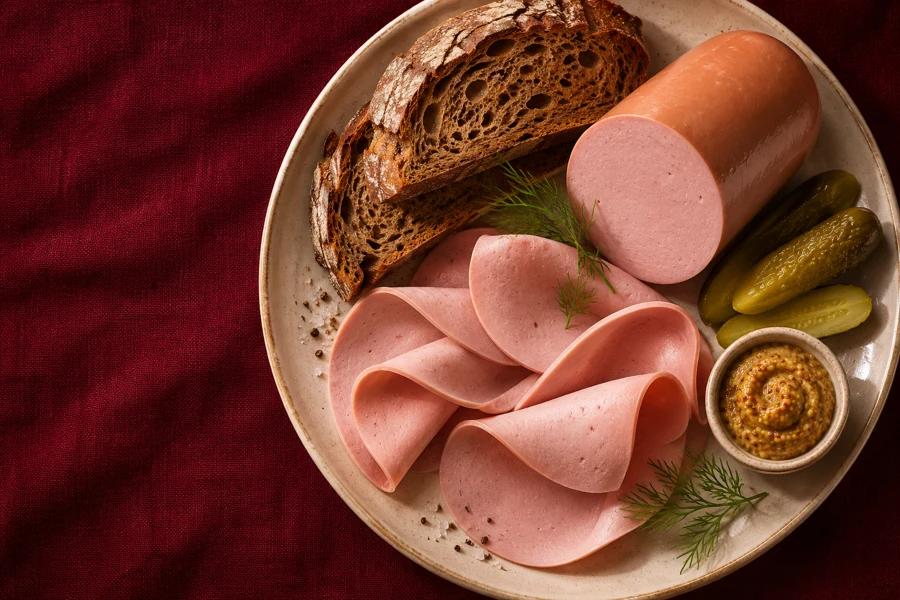
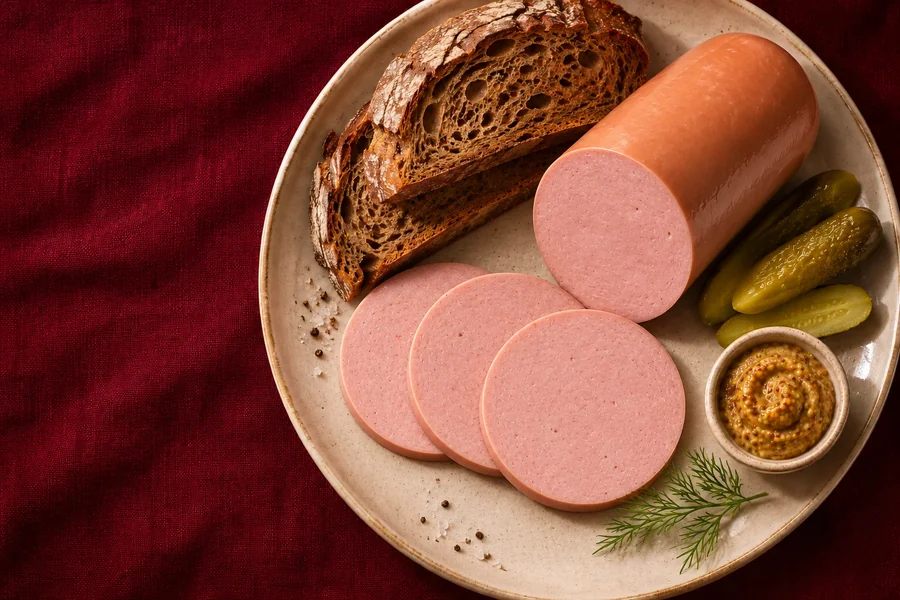
Show hand-cut sausage rounds in the hero photograph

diff --git a/index.html b/index.html
@@ -9,7 +9,7 @@
   <meta property="og:title" content="Дарницькі вироби — до столу!">
   <meta property="og:description" content="Ковбаси, сосиски й закуски. Каталог та ідеї подачі українською й польською.">
   <meta property="og:type" content="website">
-  <meta property="og:image" content="https://pavlo-bondarchuk.github.io/darnytskie_pl/assets/lifestyle/hero.webp">
+  <meta property="og:image" content="https://pavlo-bondarchuk.github.io/darnytskie_pl/assets/lifestyle/hero.webp?v=rounds">
   <title>Дарницькі вироби — до столу!</title>
   <link rel="icon" href="assets/logo/logo.svg?v=burgundy-gold" type="image/svg+xml">
   <link rel="preload" as="image" href="assets/logo/logo.svg?v=burgundy-gold">
@@ -63,7 +63,7 @@
   </dialog>
   <main id="main" tabindex="-1">
     <section id="start" class="hero" aria-labelledby="hero-title">
-      <img class="hero-image" src="assets/lifestyle/hero.webp" srcset="assets/lifestyle/hero-900.webp 900w, assets/lifestyle/hero.webp 1536w" sizes="(max-width: 680px) 100vw, 70vw" alt="" fetchpriority="high" width="1536" height="1024">
+      <img class="hero-image" src="assets/lifestyle/hero.webp?v=rounds" srcset="assets/lifestyle/hero-900.webp?v=rounds 900w, assets/lifestyle/hero.webp?v=rounds 1536w" sizes="(max-width: 680px) 100vw, 70vw" alt="" fetchpriority="high" width="1536" height="1024">
       <div class="hero-inner wrap">
         <div class="hero-copy">
           <p class="eyebrow hero-eyebrow"><span class="rule"></span><span data-pl="Ukraińskie smaki">Українські смаки</span></p>

diff --git a/ASSETS.md b/ASSETS.md
@@ -24,7 +24,7 @@ The label designs are packaging artwork, not product or lifestyle photography. D
 
 `assets/products/vershkova.webp` is a 400 × 300 WebP added in upstream change `d6d1d23`. It depicts a sausage package labelled “ВЕРШКОВА” and sliced sausage. It is used as supplied; its capture, origin, and authenticity as a brand product photograph have not been independently verified. It is the only product image currently available, and its size is below the recommended production cutout dimensions.
 
-The `assets/lifestyle/` images `hero.webp`, `hero-900.webp`, `table.webp`, and `table-900.webp` are illustrative gastronomy artwork generated with the built-in ImageGen tool for this prototype. They are not images of actual Darnytskie product packages. Their source images are `/Users/mac/.codex/generated_images/01a1a72b-bb87-7de3-b204-327bdc1dd7f6/exec-47febc9f-50f8-4454-98a4-f301175319b3.png` (hero) and `/Users/mac/.codex/generated_images/01a1a72b-bb87-7de3-b204-327bdc1dd7f6/exec-6448673e-825f-4e59-94cf-a1e20a43ad79.png` (table).
+The `assets/lifestyle/` images `hero.webp`, `hero-900.webp`, `table.webp`, and `table-900.webp` are illustrative gastronomy artwork generated with the built-in ImageGen tool for this prototype. They are not images of actual Darnytskie product packages. The hero was revised to show three crosswise slices in front of the cut sausage. The original source images are `/Users/mac/.codex/generated_images/01a1a72b-bb87-7de3-b204-327bdc1dd7f6/exec-47febc9f-50f8-4454-98a4-f301175319b3.png` (hero) and `/Users/mac/.codex/generated_images/01a1a72b-bb87-7de3-b204-327bdc1dd7f6/exec-6448673e-825f-4e59-94cf-a1e20a43ad79.png` (table).
 
 The supplied Drive folder has no font package or verified product cutouts. The prototype bundles local WOFF2 subsets for Manrope and Oswald from Google Fonts, with OFL license files in `assets/fonts/`. The label artwork depicts the six core sausage variants, smoked pork ears, and doctor's sausages, but does not establish current availability in Poland.
 

diff --git a/IMAGE-PROMPTS.md b/IMAGE-PROMPTS.md
@@ -8,7 +8,7 @@ Saved: `assets/lifestyle/hero.webp`, `assets/lifestyle/hero-900.webp`.
 
 Prompt:
 
-Use case: photorealistic-natural. Asset type: temporary illustrative food photography for a modern Ukrainian sausage brand HTML prototype, NOT a photo of its actual products. Create a luxury editorial food still life photographed from directly overhead: a large round warm ivory ceramic plate with beautiful folded pale pink cooked sausage slices, a short unbranded cylindrical cooked sausage with cut face, rustic rye sourdough, a few pickles, dill sprigs, mustard in tiny ceramic bowl. Main arrangement occupies right two thirds, left third is clear deep burgundy #810C2B tablecloth with gentle tactile fabric grain. Rich natural directional studio lighting, appetizing realistic food textures, dramatic restrained gastronomy campaign art direction. No packaging, no logos, no letters, no text, no watermark. Wide landscape 3:2 image; plate almost fills height. The whole image should feel tactile, warm, premium and culinary, not stock generic buffet.
+Edit the existing 3:2 hero photograph. Place three flat, hand-cut sausage rounds about 4–5 mm thick in front of the cut end of the cooked sausage. Match the diameter, pink color and fine grain of the exposed cross-section. Let the rounds overlap slightly and rest on the plate with natural contact shadows. Keep the ivory plate on the right, burgundy textile on the left, rye bread, gherkins, mustard, dill and soft window light. No lettering or packaging.
 
 ## Shared table
 
